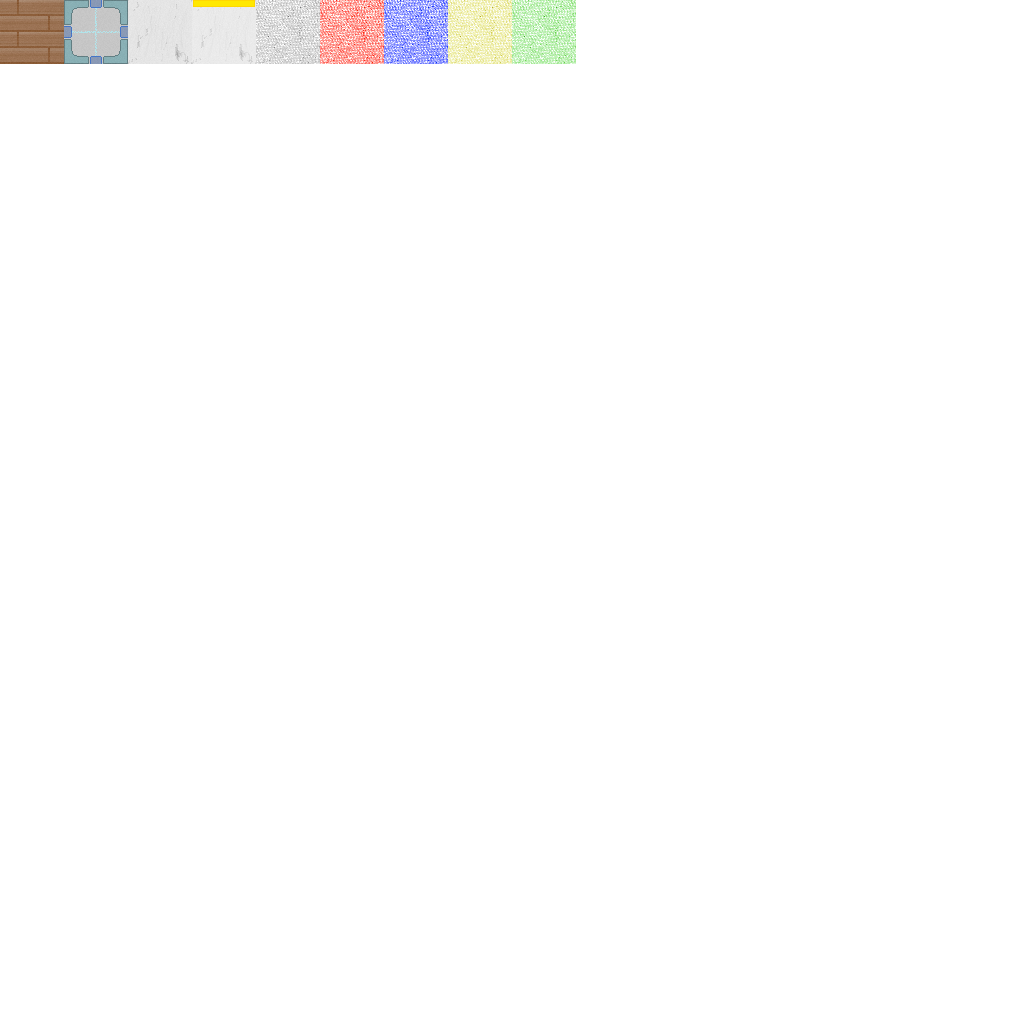
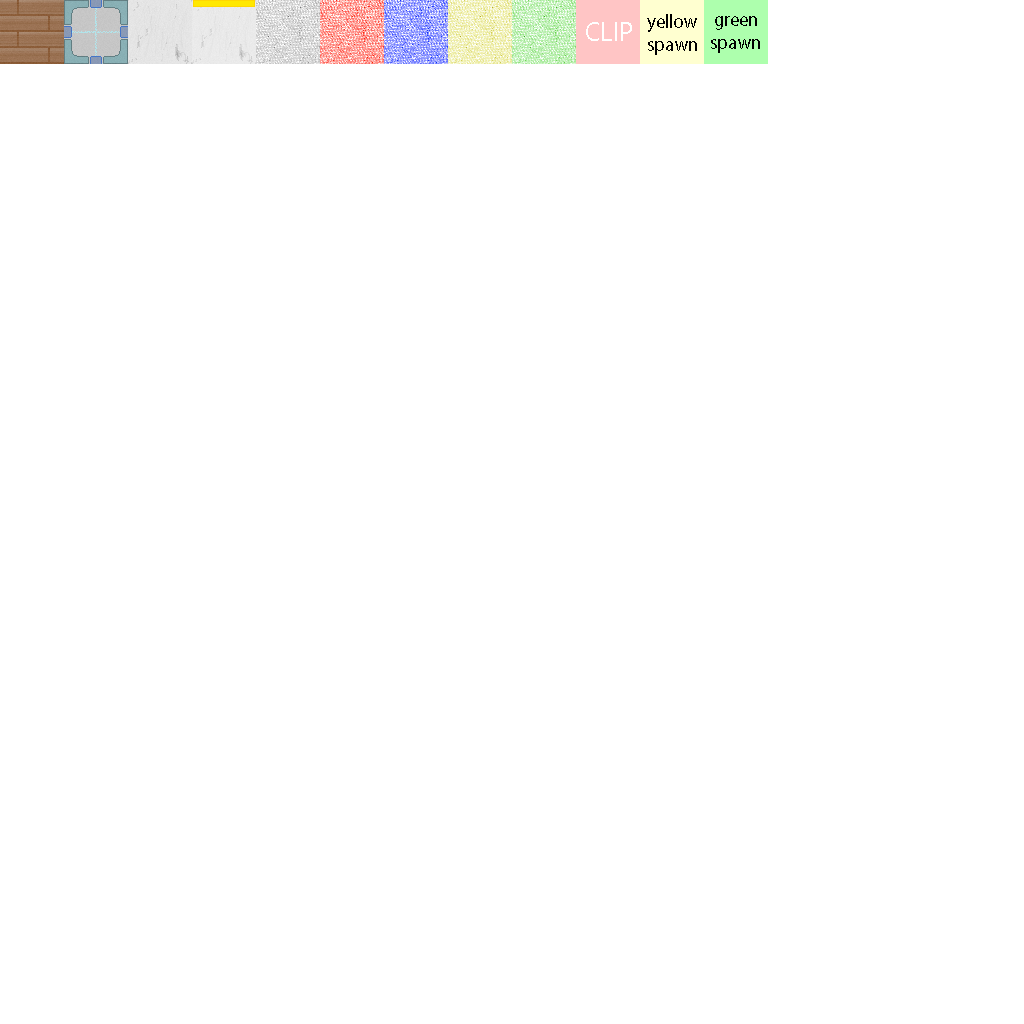
Added tool textures

Changed region(s): [[0.5625, 0.0, 0.75, 0.0625]]

diff --git a/src/org/treegames/revolution/sprite/Sprite.java b/src/org/treegames/revolution/sprite/Sprite.java
@@ -1,0 +1,9 @@
+package org.treegames.revolution.sprite;
+
+import java.awt.Point;
+
+public class Sprite {
+	public Point position = new Point(0,0);
+	
+	
+}
